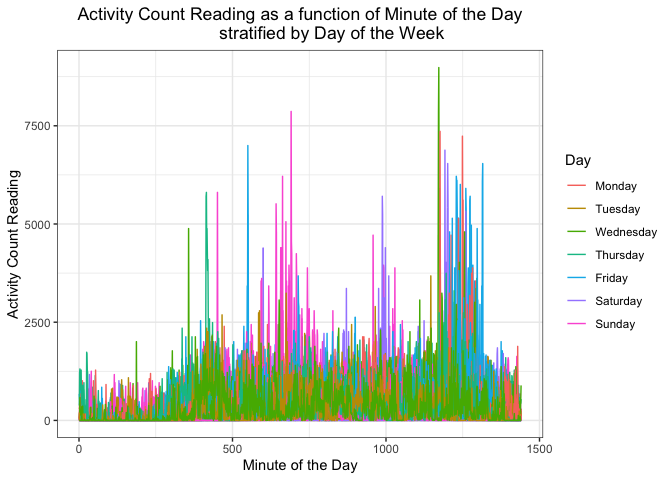
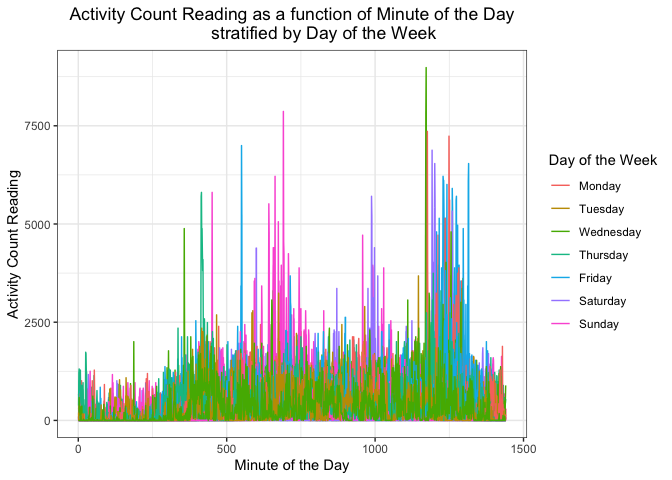
Made minor grammatical edits to problem 3.

diff --git a/p8105_hw3_bpg2118.md b/p8105_hw3_bpg2118.md
@@ -1179,24 +1179,24 @@ brfss_overall_health %>%
 ```
 
 ![](p8105_hw3_bpg2118_files/figure-gfm/unnamed-chunk-13-1.png)<!-- -->
-There are some disparities between the distribution of data\_value at
+There are some disparities between the distributions of data\_value at
 locations in NY between 2006 and 2010. One difference is that the
-data\_value values of “Good” and “Very good” response groups are more
-similar in 2006 than they are in 2010. However, overall, the
-distribution of data\_value in 2006 and 2010 for locations in NY is
+data\_value values for the “Good” and “Very good” response groups are
+more similar in 2006 than they are in 2010. However, overall, the
+distributions of data\_value in 2006 and 2010 for locations in NY are
 quite similar. Poor responses have the lowest data\_value values,
 followed by Fair responses, Excellent responses, Good responses and
 lastly Very good responses with the highest data\_value values. This
 ordering of the data\_value values across response groups is the same
 for both 2006 and 2010 across locations in NY. It should be noted that
-although we are comparing the distribution of data\_value across
+although we are comparing the distributions of data\_value across
 response groups in years 2006 and 2010, no statistical tests were
 performed and the groups were strictly compared visually using the
 boxplots above.
 
 #### **Problem 3**
 
-Let’s begin by loading the data.
+Let’s begin by loading the accelerometer data.
 
 ``` r
 accel_df <- read_csv(here("hw3_data", "accel_data.csv"))
@@ -1215,14 +1215,16 @@ accel_df <- accel_df %>%
     names_to = "activity_count_index",
     values_to = "activity_count_reading") %>%
   mutate(activity_count_index = as.integer(str_replace(activity_count_index,
-                                            "activity.",
-                                            "")))
+                                                       "activity.",
+                                                       "")))
 ```
 
 We can next add a logical variable that is TRUE if the day is on a
 weekend day and FALSE if the day is on a weekday.
 
 ``` r
+# Create variable is_weekend to be TRUE on weekends (Saturday or Sunday) and
+# FALSE otherwise
 accel_df <- accel_df %>%
   mutate(is_weekend = ifelse(day == "Saturday" | day == "Sunday",
                              TRUE, FALSE))
@@ -1246,13 +1248,13 @@ accel_df <- accel_df %>%
 
 The resulting data set has 50,400 rows and 6 columns, with the columns
 being week, day\_id, day, activity\_count\_index,
-activity\_count\_reading, is\_weekend. There is one row for every
+activity\_count\_reading, and is\_weekend. There is one row for every
 activity count reading, and there is one activity count reading for
 every minute of everyday for five weeks.
 
-Now, let’s use our tidied data set to aggregate across minutes to create
-a total activity variable for each day. We will show the results in a
-table.
+Now, let’s use our tidied accelerometer data set to aggregate across
+minutes to create a total activity variable for each day. We will show
+the results in a table below.
 
 ``` r
 # Group by each day and get a sum for the activity count reading for the day
@@ -1300,16 +1302,16 @@ accel_df %>%
 |      34 |            367824.00 |
 |      35 |            445366.00 |
 
-It appears activity started off low for the first three days. After the
-first three days, activity increased. It’s difficult to discern any
-trends after the first three days.
+The sum of activity readings for each day seem to vary mostly between
+300,000 and 600,000. There does not appear to be a discernible trend in
+the sum of activity readings across time from viewing this table.
 
 Next, let’s make a single-panel plot that visualizes the twenty-four
 hour activity time courses for each day. We will color by day of the
 week.
 
 ``` r
-# Set group in ggplot to plot one line for each day
+# Set group to day_id in ggplot to plot one line for each day
 accel_df %>%
   ggplot(aes(x = activity_count_index, y = activity_count_reading,
              group = day_id, color = day)) +
@@ -1319,13 +1321,14 @@ accel_df %>%
     y = "Activity Count Reading",
     title = "Activity Count Reading as a function of Minute of the Day
              stratified by Day of the Week",
-    color = "Day"
+    color = "Day of the Week"
   ) +
   theme_bw() +
   theme(plot.title = element_text(hjust = 0.5))
 ```
 
 ![](p8105_hw3_bpg2118_files/figure-gfm/unnamed-chunk-19-1.png)<!-- -->
-From the graph, it appears that the activity count reading increases
-from early in the day to later in the day. We observe some spikes in
-activity counts that are typically on Fridays, Saturdays or Sundays.
+From the plot, it appears that the activity count reading increases from
+early in the day to later in the day and decreases at the very end of
+the day. We observe some spikes in activity counts that are typically on
+Fridays, Saturdays or Sundays.
